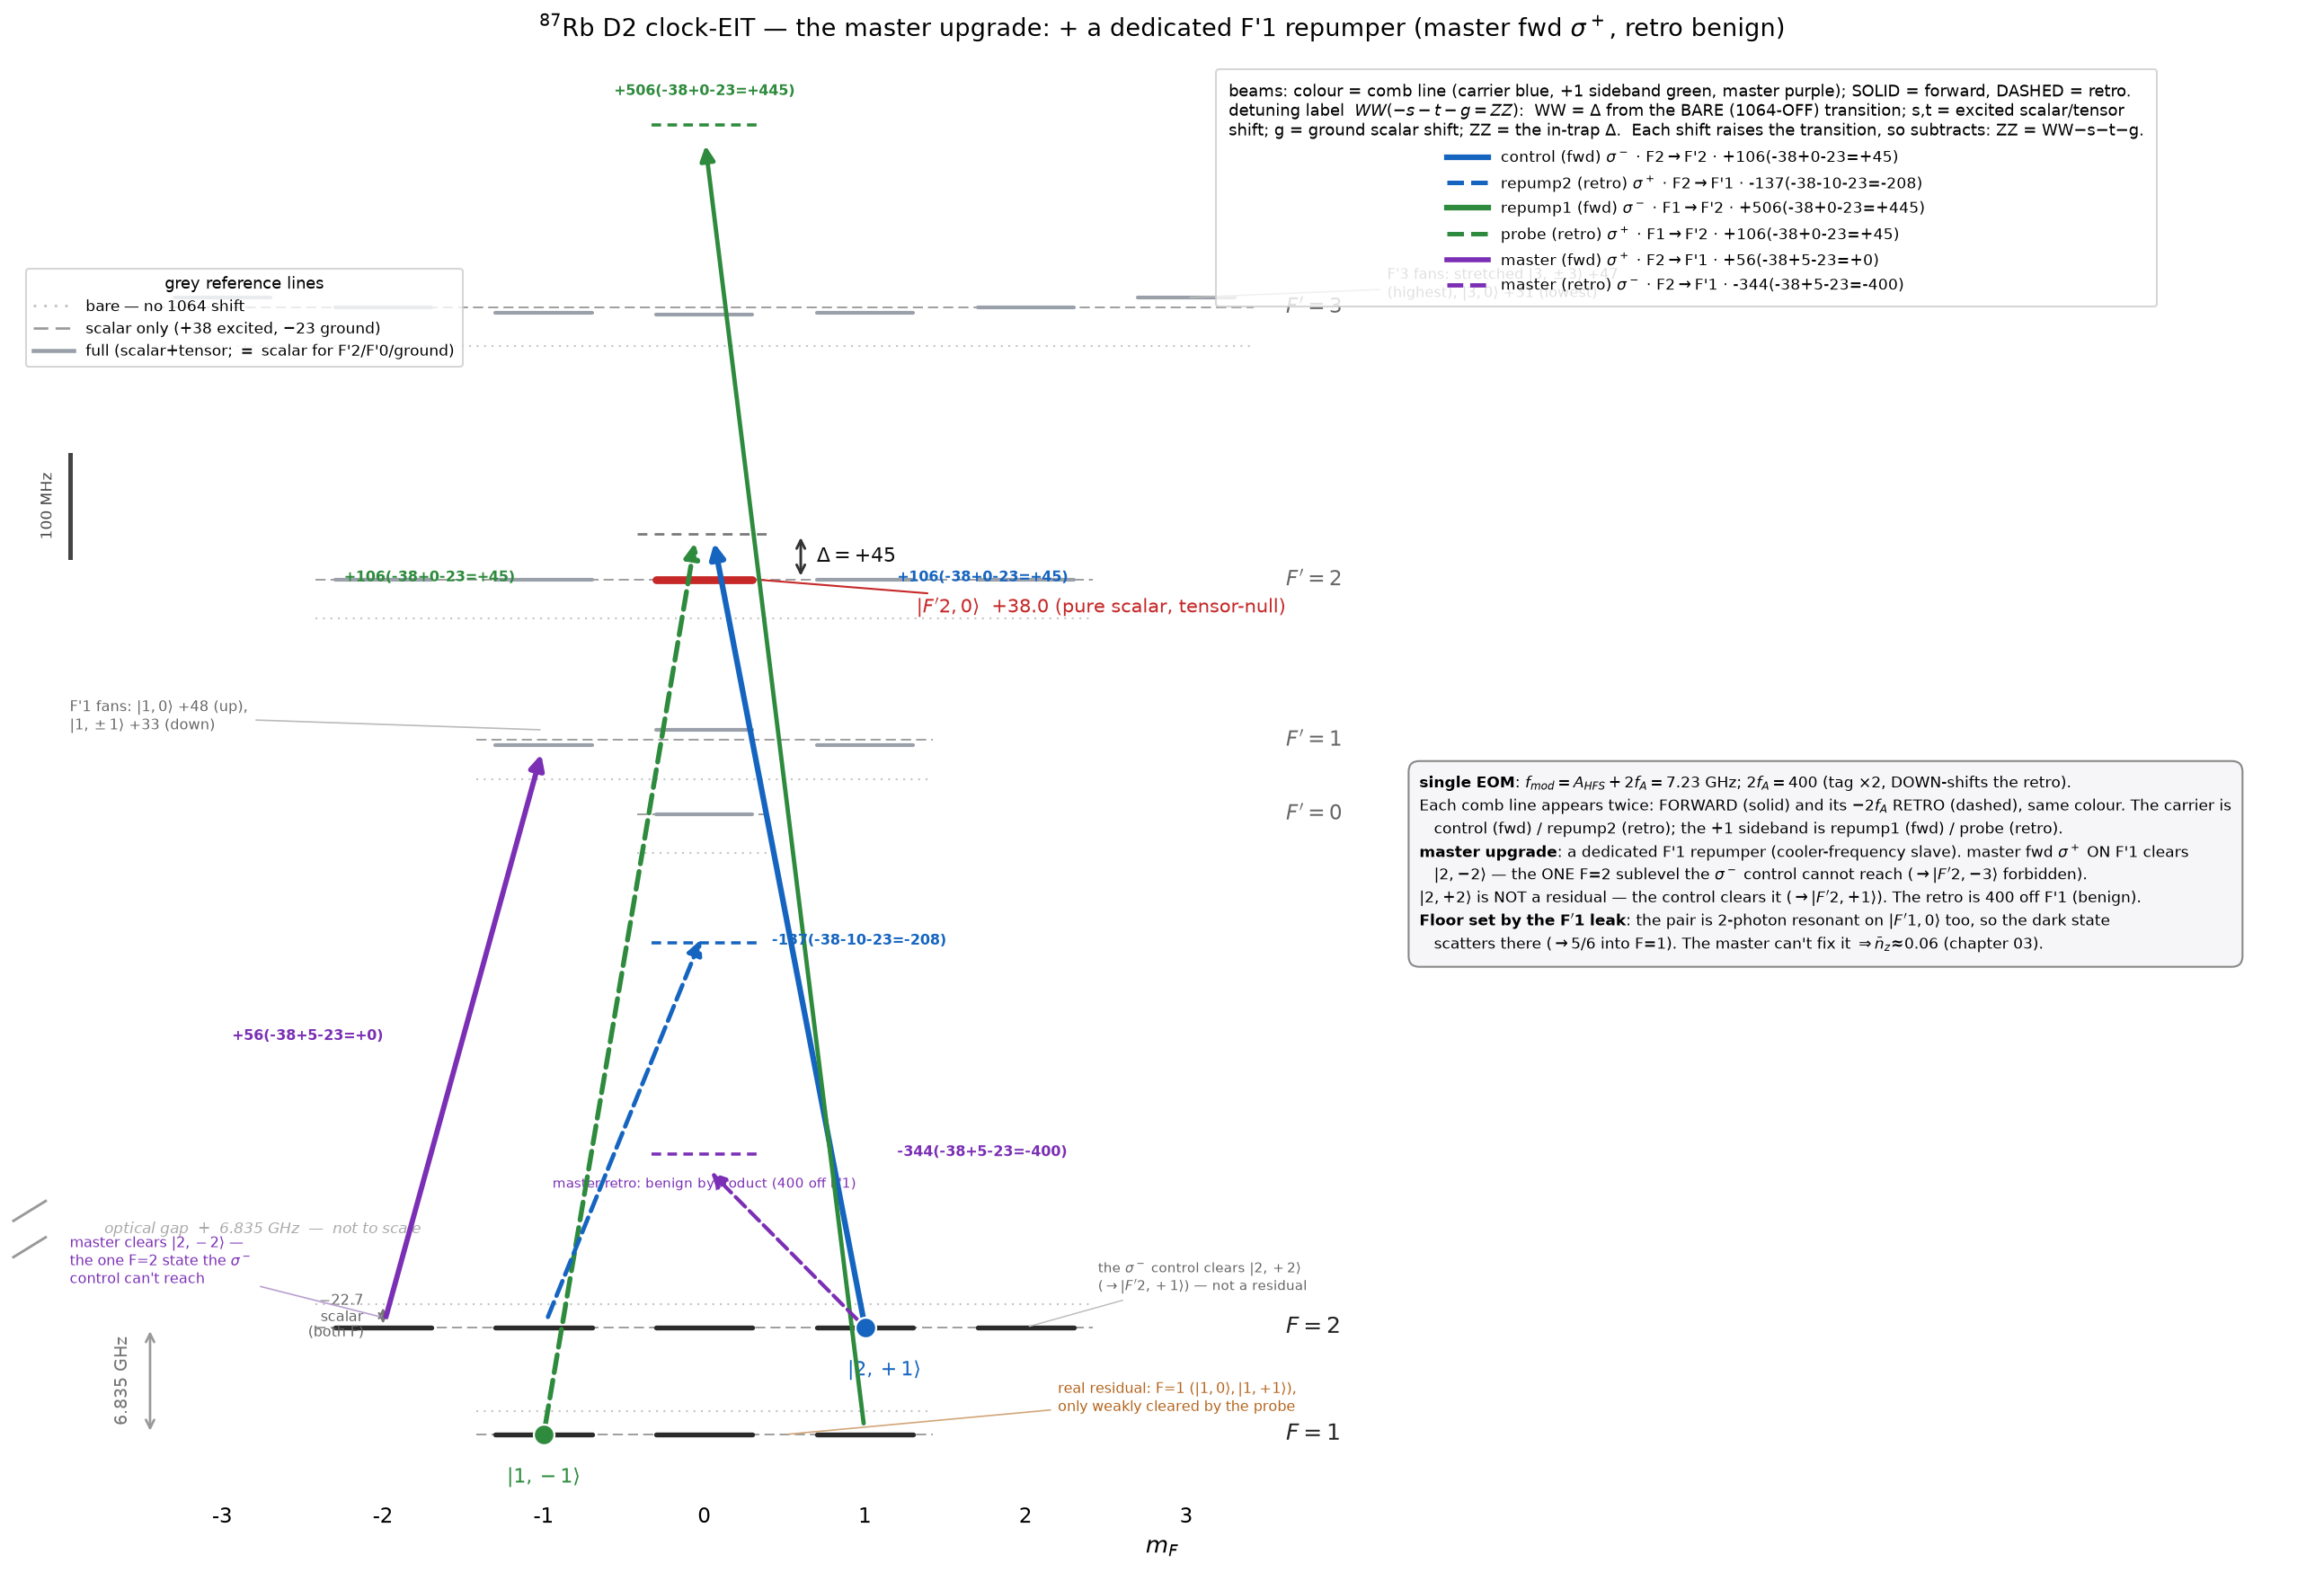
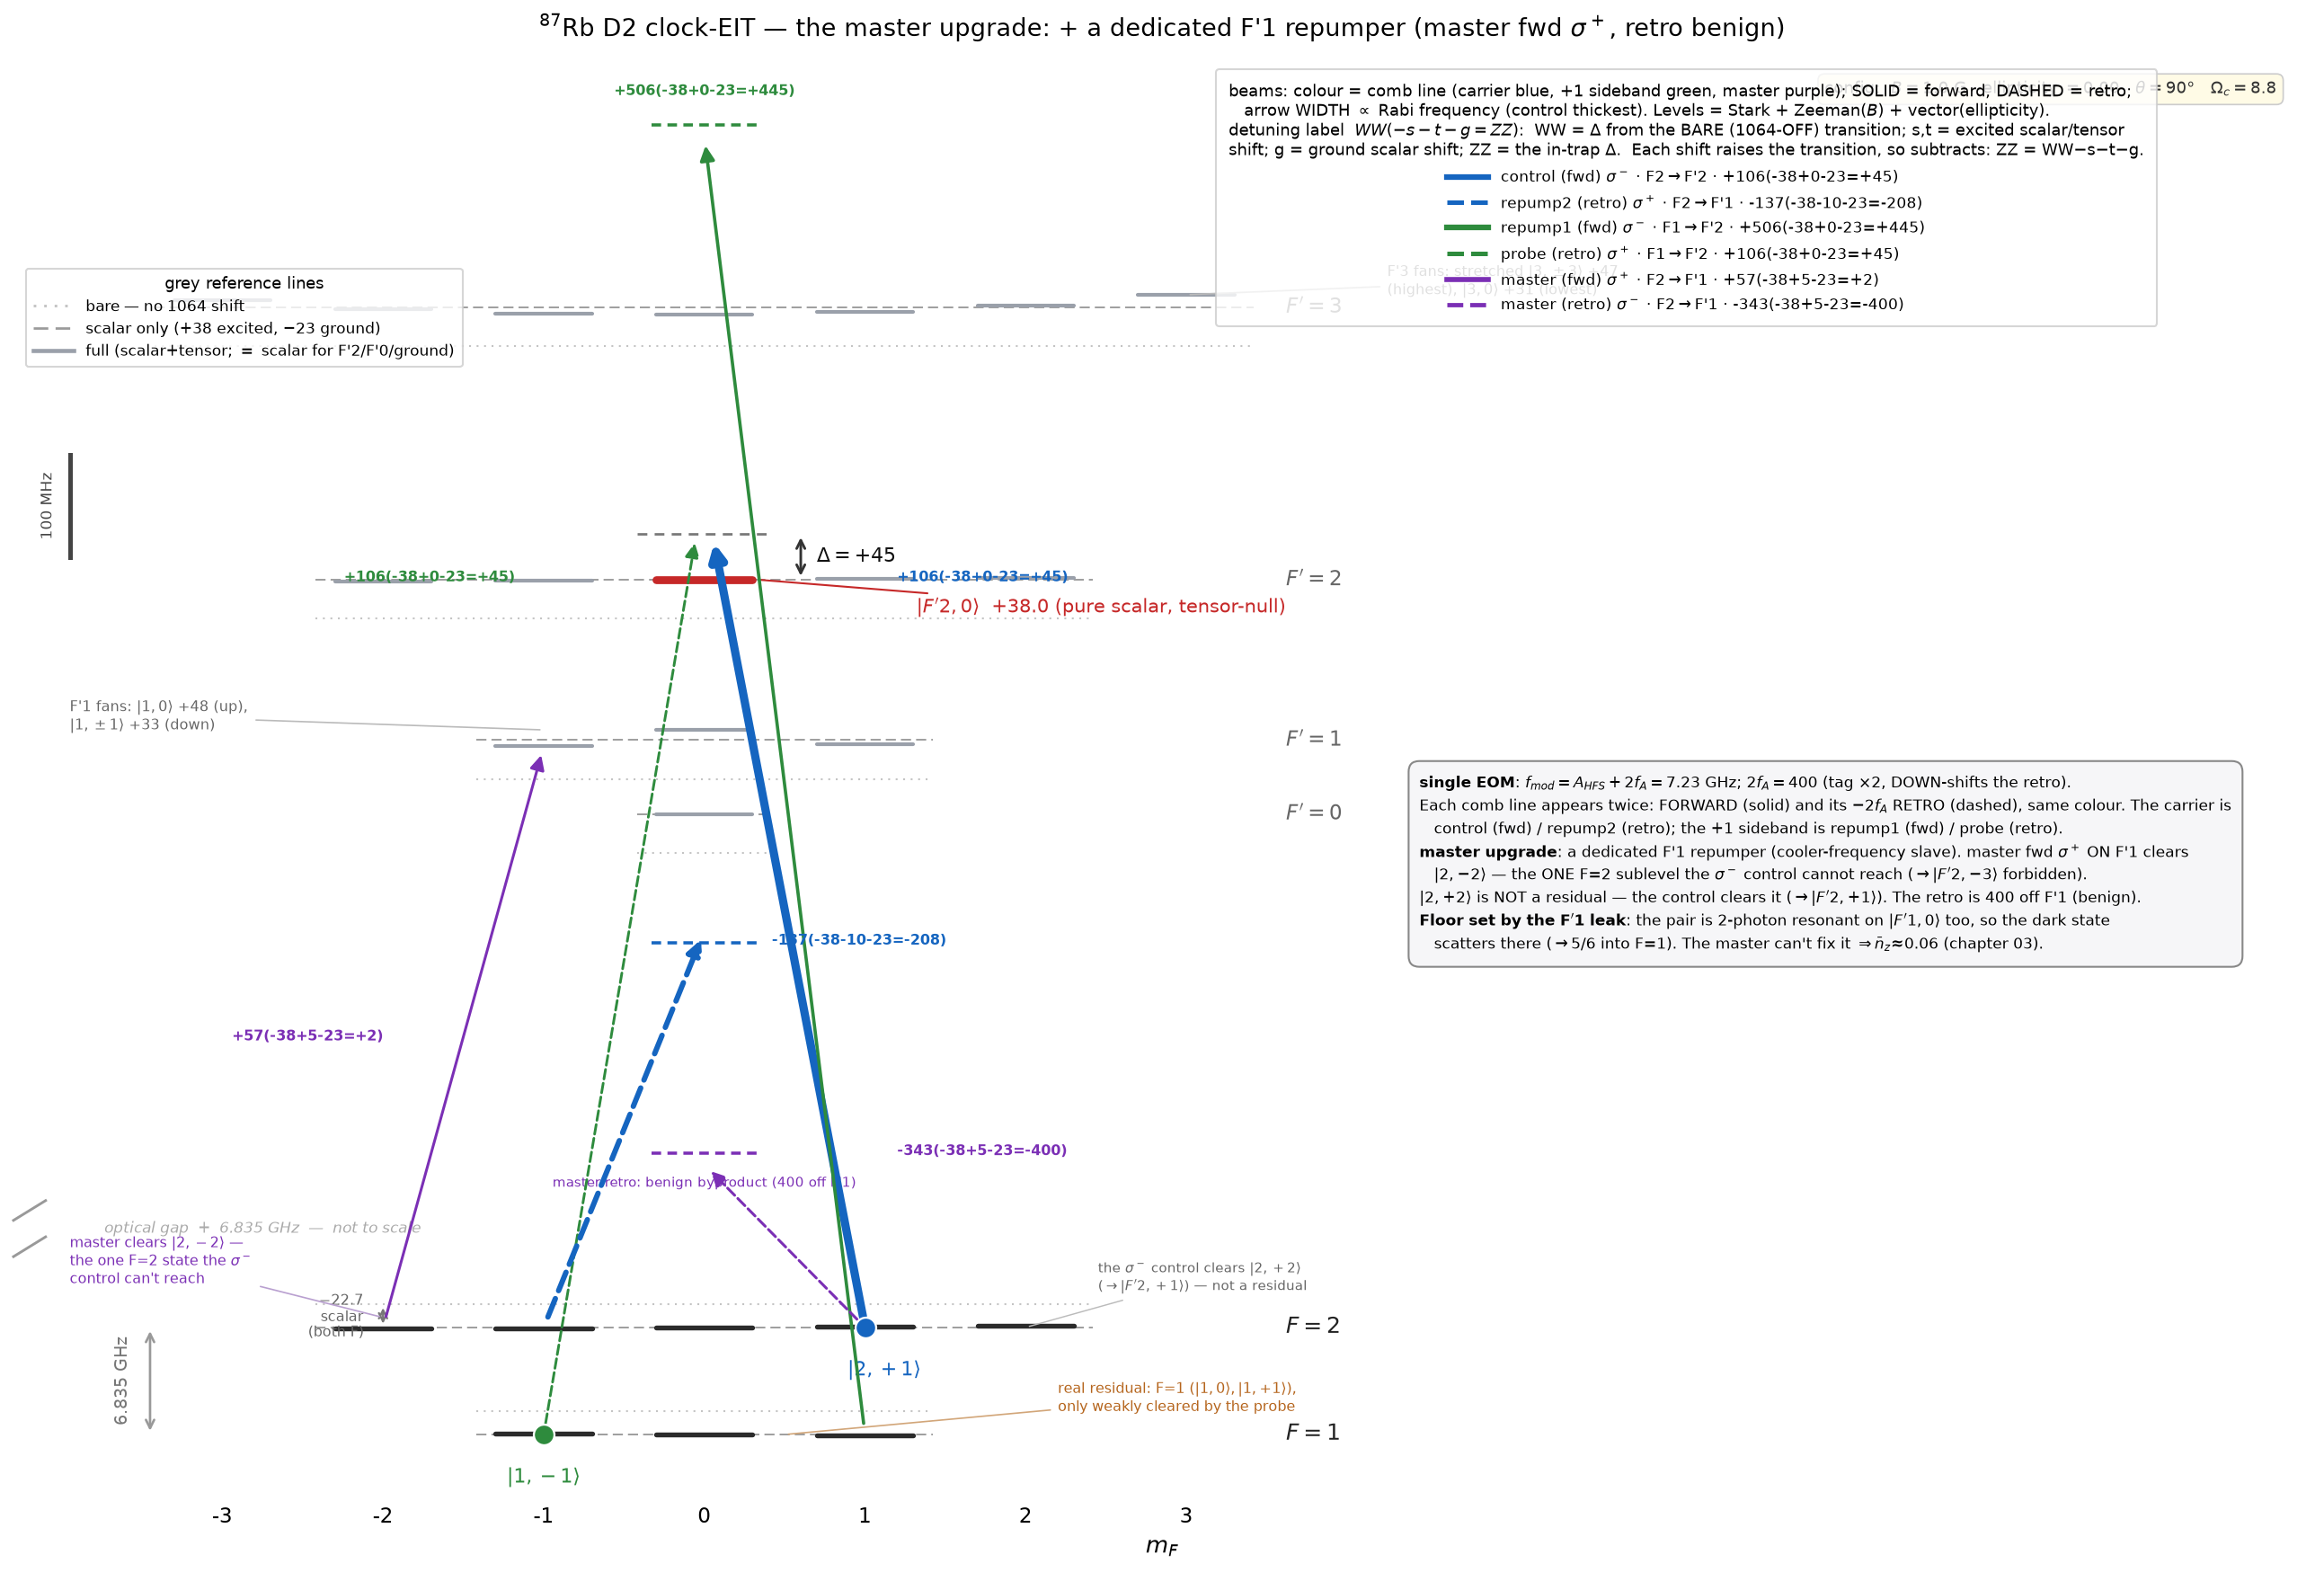
dashboard (stage 1): parameter-driven 24-level scheme (B / vector / Rabi-width)
level_scheme.py now reads three live config knobs so the PI can tune and redraw:
  - B_field     : linear Zeeman splitting of every m sublevel (ground + excited);
  - ellipticity : (new) the rank-1 VECTOR light shift -- 0 for the linear trap, a fictitious B ~ ellipticity*m_F
                  (new alpha1_5S / alpha1_5P32 placeholders; stark.stark_vector);
  - arrow WIDTH : proportional to each tone's Rabi frequency (control thickest).
A config readout (B, ellipticity, theta, Omega_c) is drawn on the figure; the legend states the width/level rules.
Also fixed 02_multilevel/stark.py naming to match chapter 01 (_FPREF/_mfac -> tensor_F_prefactor/tensor_m_factor).

Solver unchanged (clean-Lambda 0.0032; it assumes linear pol, so ignores ellipticity); both scheme figures regenerated.

diff --git a/02_multilevel/level_scheme.py b/02_multilevel/level_scheme.py
@@ -36,11 +36,24 @@ def yc(f): return f * S                                    # true 2pi-MHz -> dra
 BARE = {0: -229.17, 1: -156.95, 2: 0.0, 3: 266.65}         # bare 87Rb 5P3/2 hyperfine vs F'2 (Steck)
 TH = c.theta_trap
 def shift(Fp, mp): return stark.stark_level(Fp, mp, TH)    # full excited 1064 shift = scalar + tensor
-def lt(Fp, mp): return BARE[Fp] + shift(Fp, mp)            # in-trap (Stark-shifted) excited level
+def lt(Fp, mp):                                           # in-trap excited level: Stark + Zeeman(B) + vector
+    return (BARE[Fp] + shift(Fp, mp) + zeeman(gF_excited, mp)
+            + stark.stark_vector(c.alpha1_5P32, Fp, mp, c.ellipticity))
 def yE(Fp, mp): return yc(lt(Fp, mp))
 SCAL = shift(2, 0)                                         # +38 scalar (F'2 tensor-null)
 U0   = -stark.shift(c.alpha0_5S)                           # +22.7 ground scalar DOWN-shift (both F)
 Oc = np.sqrt(4.0 * c.Delta * c.nu_z); Op = c.probe_control_ratio * Oc      # control / probe Rabis (~8.8 / 1.1)
+
+# --- Zeeman(B) + vector(ellipticity): the two live level-shift knobs (config.B_field, config.ellipticity) ---
+muB = 1.399624                                            # Bohr magneton / h (MHz/G)
+gF_ground = {1: -0.5, 2: +0.5}; gF_excited = 2.0 / 3.0    # Lande g-factors (ground pair; 5P3/2)
+def zeeman(g, m): return g * m * muB * c.B_field          # linear Zeeman shift (2pi MHz)
+# --- arrow WIDTH proportional to each tone's Rabi frequency ---
+RABI = dict(control=Oc, probe=Op,
+            rep1=c.repump_scale * Op / np.sqrt(c.retro_efficiency),   # forward +1 EOM sideband
+            rep2=c.repump_scale * Oc * np.sqrt(c.retro_efficiency),   # retro carrier
+            mfwd=1.2, mret=1.2)                                       # master (representative Rabi)
+def lw_of(key): return 1.0 + 3.4 * (RABI[key] / Oc)       # linewidth ~ Rabi (control = thickest)
 
 em = {0: [0], 1: [-1, 0, 1], 2: [-2, -1, 0, 1, 2], 3: [-3, -2, -1, 0, 1, 2, 3]}
 gm = {1: [-1, 0, 1], 2: [-2, -1, 0, 1, 2]}
@@ -77,8 +90,9 @@ def draw(with_master, outpath, title):
     HW = 0.30
     def lvl(m, y, col="#9aa0aa", lw=2.0, z=2):
         ax.plot([m - HW, m + HW], [y, y], color=col, lw=lw, solid_capstyle="round", zorder=z)
-    def beam(p0, p1, key, lw=2.8, msc=16):
-        ax.add_patch(FancyArrowPatch(p0, p1, arrowstyle="-|>", mutation_scale=msc, color=C[key], lw=lw,
+    def beam(p0, p1, key, lw=None, msc=16):
+        w = lw_of(key)          # WIDTH proportional to this tone's Rabi frequency
+        ax.add_patch(FancyArrowPatch(p0, p1, arrowstyle="-|>", mutation_scale=msc, color=C[key], lw=w,
                      zorder=5, shrinkA=6, shrinkB=5, linestyle=("-" if FWD[key] else "--")))
     def tick(m, y, col):
         ax.plot([m - 0.33, m + 0.33], [y, y], ls=(0, (3, 2)), color=col, lw=1.7, zorder=4)
@@ -106,8 +120,9 @@ def draw(with_master, outpath, title):
             lvl(mp, yE(Fp, mp), "#c62828" if hot else "#9aa0aa", 4.2 if hot else 2.0, 4 if hot else 2)
     for F, ms in gm.items():
         yg = yG2 if F == 2 else yG1
-        for m in ms:
-            lvl(m, yg, "#2b2b2b", 2.6)
+        for m in ms:                     # fan the ground sublevels by Zeeman(B) + vector(ellipticity)
+            dy = yc(zeeman(gF_ground[F], m) + stark.stark_vector(c.alpha1_5S, F, m, c.ellipticity))
+            lvl(m, yg + dy, "#2b2b2b", 2.6)
     ax.plot(-1, yG1, "o", color=C["probe"], ms=11, zorder=6, mec="white", mew=1.1)     # |1,-1>
     ax.plot(+1, yG2, "o", color=C["control"], ms=11, zorder=6, mec="white", mew=1.1)   # |2,+1>
 
@@ -192,7 +207,8 @@ def draw(with_master, outpath, title):
             Line2D([0], [0], color=MASTER, lw=2.7, ls="-",  label=leglab("master (fwd)", "\\sigma^+", "F2$\\to$F'1", "mfwd")),
             Line2D([0], [0], color=MASTER, lw=2.3, ls="--", label=leglab("master (retro)", "\\sigma^-", "F2$\\to$F'1", "mret")),
         ]
-    ttl = ("beams: colour = comb line (carrier blue, +1 sideband green, master purple); SOLID = forward, DASHED = retro.\n"
+    ttl = ("beams: colour = comb line (carrier blue, +1 sideband green, master purple); SOLID = forward, DASHED = retro;\n"
+           "   arrow WIDTH $\\propto$ Rabi frequency (control thickest). Levels = Stark + Zeeman($B$) + vector(ellipticity).\n"
            "detuning label  $WW(-s-t-g=ZZ)$:  WW = $\\Delta$ from the BARE (1064-OFF) transition; s,t = excited scalar/tensor\n"
            "shift; g = ground scalar shift; ZZ = the in-trap $\\Delta$.  Each shift raises the transition, so subtracts: ZZ = WW$-$s$-$t$-$g.")
     bl = ax.legend(handles=leg, loc="upper left", bbox_to_anchor=(0.520, 0.998), frameon=True, fontsize=8.4,
@@ -231,6 +247,10 @@ def draw(with_master, outpath, title):
     ax.set_yticks([]); ax.tick_params(length=0)
     for s in ax.spines.values():
         s.set_visible(False)
+    ax.text(0.985, 0.985, "config:  $B=%.1f$ G   ellipticity $=%.2f$   $\\theta=%.0f°$   $\\Omega_c=%.1f$"
+            % (c.B_field, c.ellipticity, c.theta_trap, Oc),
+            transform=ax.transAxes, ha="right", va="top", fontsize=8.8, color="#333",
+            bbox=dict(boxstyle="round,pad=0.4", fc="#fffbe6", ec="#ccc", lw=0.8))
     fig.tight_layout()
     fig.savefig(outpath, dpi=150, bbox_inches="tight")
     plt.close(fig)

diff --git a/02_multilevel/stark.py b/02_multilevel/stark.py
@@ -33,10 +33,10 @@ def shift(alpha_au):
 #   {2 2 2; 3/2 3/2 3/2} = 0          -> F'=2 tensor NULL: the EIT target is pure scalar (any geometry)
 #   {1 2 1; 3/2 3/2 3/2} = -0.16330 ; {3 2 3; 3/2 3/2 3/2} = [phone redacted]
 #   -> F'-prefactor ratios (relative to F'=3): F'=0: 0, F'=1: -0.5345, F'=2: 0, F'=3: +1.
-_FPREF = {0: 0.0, 1: -0.534522, 2: 0.0, 3: 1.0}    # (2F'+1){F' 2 F';3/2..}/(7{3 2 3;3/2..})
+tensor_F_prefactor = {0: 0.0, 1: -0.534522, 2: 0.0, 3: 1.0}    # (2F'+1){F' 2 F';3/2..}/(7{3 2 3;3/2..})
 
 
-def _mfac(Fp, mp):
+def tensor_m_factor(Fp, mp):
     return (3 * mp**2 - Fp * (Fp + 1)) / (Fp * (2 * Fp - 1)) if Fp >= 1 else 0.0
 
 
@@ -46,12 +46,21 @@ def stark_tensor(Fp, mp, theta_deg=90.0):
        The axial lattice is transverse-polarized about the axial B, so theta=90 deg (default);
        theta=0 (pol || B) reproduces the polarizability-authority +19.4 (F'=3 stretched) etc."""
     ang = (3 * np.cos(np.deg2rad(theta_deg))**2 - 1) / 2.0     # +1 at 0 deg, -1/2 at 90 deg
-    return shift(c.alpha2_5P32) * _FPREF[Fp] * _mfac(Fp, mp) * ang
+    return shift(c.alpha2_5P32) * tensor_F_prefactor[Fp] * tensor_m_factor(Fp, mp) * ang
 
 
 def stark_level(Fp, mp, theta_deg=90.0):
     """Total 1064 shift of |5P3/2 F',m'> = common scalar + tensor(F',m') (2pi*MHz)."""
     return shift(c.alpha0_5P32) + stark_tensor(Fp, mp, theta_deg)
+
+
+def stark_vector(alpha1_au, F, m, ellipticity):
+    """Rank-1 (VECTOR) 1064 light shift (2pi*MHz): a fictitious B ~ ellipticity * m_F, ZERO for a linear
+       trap (ellipticity=0). alpha1_au is the vector polarizability; the linear-in-m form
+       U_vec = shift(alpha1) * ellipticity * (m/F) is illustrative (the exact prefactor needs a reference)."""
+    if F == 0 or ellipticity == 0.0:
+        return 0.0
+    return shift(alpha1_au) * ellipticity * (m / F)
 
 
 if __name__ == "__main__":

diff --git a/02_multilevel/config.py b/02_multilevel/config.py
@@ -16,6 +16,9 @@ w0     = 19e-6        # 1/e^2 intensity waist (m) -- the kagome HCPCF mode at 10
 alpha0_5S   =  687.3  # ground 5S_1/2 scalar   (>0 -> trapped)
 alpha0_5P32 = -1149.0 # excited 5P_3/2 scalar  (<0 -> anti-trapped)
 alpha2_5P32 =  563.0  # excited 5P_3/2 tensor
+alpha1_5S   =    0.0  # ground  5S_1/2 VECTOR (rank-1) polarizability (a.u.) -- PLACEHOLDER
+alpha1_5P32 =  200.0  # excited 5P_3/2 VECTOR polarizability (a.u.) -- order-of-magnitude PLACEHOLDER
+                      #   (only used when ellipticity != 0; set from a vector-polarizability reference to trust it)
 
 # --- the atom / cooling transition (87Rb D2; clock-EIT Lambda |1,-1>,|2,+1> -> |F'2,0>) ---
 Gamma = 6.07          # 5P_3/2 natural linewidth (2pi*MHz)
@@ -32,6 +35,9 @@ probe_control_ratio   = 0.12          # probe/control Rabi ratio
 B_field      = 1.0    # magnetic field (G); cooling field, axial. Floor is B-insensitive (clock pair).
 theta_trap   = 90.0   # trap linear-pol angle to the axial B (deg). 90 = transverse lattice (real);
                       #   0 = pol||B (reproduces the polarizability-authority F' Stark shifts).
+ellipticity  = 0.0    # degree of circular polarization in [-1,+1]; 0 = LINEAR trap -> vector shift = 0.
+                      #   a knob for level_scheme.py: nonzero adds the rank-1 VECTOR light shift (a fictitious
+                      #   B ~ ellipticity*m_F). The floor solve assumes linear pol, so it ignores this.
 # Single-EOM tagged-retro delivery: ONE seed -> EOM (f_mod = A_HFS + 2f_A = 6.83 + 0.40 = 7.23 GHz)
 # -> ... -> tag AOM (2f_A, DOWN-shifts the retro) -> retro. The repumpers are NOT separate lasers --
 # they are the leftover tones of the SAME comb, deliberately left OFF-RESONANCE: